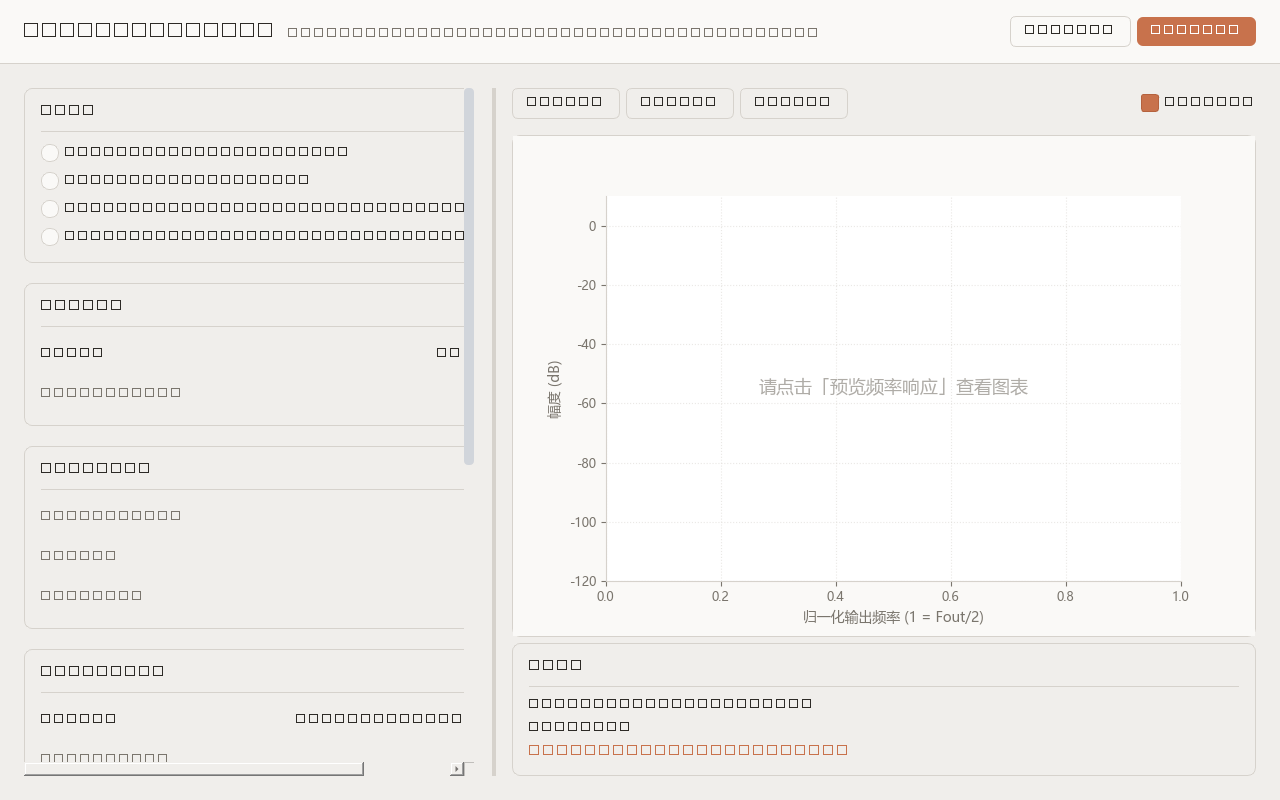
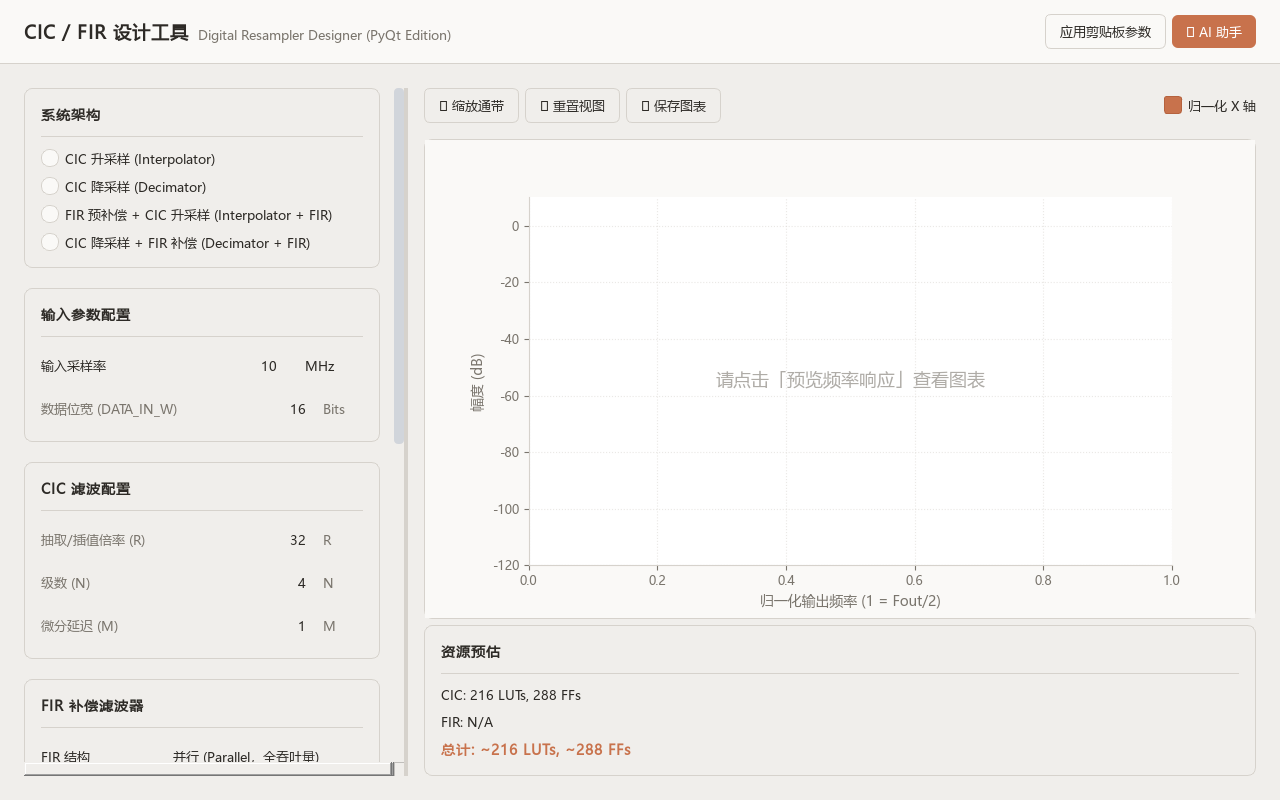
Fix GUI CJK font stack; regenerate screenshot; detail README LLM API config
- ui.py: add Microsoft YaHei / PingFang SC / Noto Sans CJK to global font stack
- images/gui.png: re-captured with CJK fonts loaded
- README: document default model deepseek-v4-flash and how to switch to
  other OpenAI-compatible providers (OpenAI, Qwen, Kimi, GLM, vLLM, Ollama)

diff --git a/py/ui.py b/py/ui.py
@@ -76,7 +76,7 @@ THEME = {
 
 GLOBAL_STYLESHEET = f"""
 QWidget {{
-    font-family: -apple-system, BlinkMacSystemFont, "Segoe UI", Roboto, "Helvetica Neue", Arial, sans-serif;
+    font-family: -apple-system, BlinkMacSystemFont, "Segoe UI", Roboto, "Helvetica Neue", Arial, "Microsoft YaHei", "PingFang SC", "Noto Sans CJK SC", sans-serif;
     color: {THEME['text']};
     font-size: 13px;
 }}

diff --git a/README.md b/README.md
@@ -79,21 +79,77 @@ cd cic-design-studio
 pip install -r requirements.txt
 ```
 
-### 配置 LLM API（可选）
+### 配置 LLM API
 
-工具调用 OpenAI API 格式兼容的对话接口，通过环境变量配置，默认使用 deepseek-v4-flash 模型：
+工具调用 **OpenAI API 格式兼容** 的对话接口完成智能对话与自然语言参数推荐，全部通过环境变量配置，**代码中不包含任何 API Key**。
+
+#### 默认配置：DeepSeek + deepseek-v4-flash
+
+只需设置 API Key 即可使用，模型与接口地址均带默认值：
 
 ```bash
 # Windows (PowerShell)
-$env:DEEPSEEK_API_KEY = "sk-你的密钥"
-$env:DEEPSEEK_MODEL   = "deepseek-v4-flash"     # 可选，默认 deepseek-v4-flash
-$env:DEEPSEEK_API_URL = "https://api.deepseek.com/chat/completions"  # 可选
-
-# Linux / macOS
-export DEEPSEEK_API_KEY="sk-你的密钥"
+$env:DEEPSEEK_API_KEY = "sk-你的DeepSeek密钥"
 ```
 
-不配置 API Key 时，全部确定性功能（参数设计、频响验证、RTL 生成、协同仿真）均可正常使用，仅 LLM 辅助功能（智能对话、参数推荐）不可用。
+| 环境变量 | 默认值 | 说明 |
+|---|---|---|
+| `DEEPSEEK_API_KEY` | 必填，无默认值 | DeepSeek API Key（在 https://platform.deepseek.com 获取） |
+| `DEEPSEEK_MODEL` | `deepseek-v4-flash` | 对话模型名称 |
+| `DEEPSEEK_API_URL` | `https://api.deepseek.com/chat/completions` | OpenAI 兼容接口地址 |
+
+默认使用 **deepseek-v4-flash**（dsv4f）模型，不需要额外配置。
+
+#### 使用其他模型
+
+##### 切换 DeepSeek 的其他模型
+
+```bash
+$env:DEEPSEEK_API_KEY = "sk-你的DeepSeek密钥"
+$env:DEEPSEEK_MODEL   = "deepseek-chat"        # 或 deepseek-reasoner
+```
+
+##### 使用 OpenAI 模型
+
+```bash
+$env:DEEPSEEK_API_KEY = "sk-你的OpenAI密钥"
+$env:DEEPSEEK_MODEL   = "gpt-4o"               # 或 gpt-4o-mini 等
+$env:DEEPSEEK_API_URL = "https://api.openai.com/v1/chat/completions"
+```
+
+##### 使用其他 OpenAI 兼容服务（通义 / Kimi / 智谱 / vLLM / Ollama 等）
+
+任何提供 OpenAI 兼容 `/chat/completions` 接口的服务均可接入，只需修改 `DEEPSEEK_API_URL` 与 `DEEPSEEK_MODEL`：
+
+```bash
+# Windows (PowerShell)
+$env:DEEPSEEK_API_KEY = "你的服务商密钥"
+$env:DEEPSEEK_MODEL   = "qwen-max"             # 按服务商模型名填写
+$env:DEEPSEEK_API_URL = "https://dashscope.aliyuncs.com/compatible-mode/v1/chat/completions"  # 例：阿里云百炼
+
+# Linux / macOS
+export DEEPSEEK_API_KEY="你的服务商密钥"
+export DEEPSEEK_MODEL="qwen-max"
+export DEEPSEEK_API_URL="https://dashscope.aliyuncs.com/compatible-mode/v1/chat/completions"
+```
+
+常见服务商配置参考：
+
+| 服务商 | `DEEPSEEK_API_URL` | 模型示例 |
+|---|---|---|
+| DeepSeek（默认） | `https://api.deepseek.com/chat/completions` | `deepseek-v4-flash` / `deepseek-chat` / `deepseek-reasoner` |
+| OpenAI | `https://api.openai.com/v1/chat/completions` | `gpt-4o` / `gpt-4o-mini` |
+| 阿里云百炼（通义千问） | `https://dashscope.aliyuncs.com/compatible-mode/v1/chat/completions` | `qwen-max` / `qwen-plus` |
+| Moonshot（Kimi） | `https://api.moonshot.cn/v1/chat/completions` | `moonshot-v1-8k` 等 |
+| 智谱 GLM | `https://open.bigmodel.cn/api/paas/v4/chat/completions` | `glm-4-plus` 等 |
+| 本地 vLLM | `http://localhost:8000/v1/chat/completions` | 你部署的模型名 |
+| 本地 Ollama | `http://localhost:11434/v1/chat/completions` | `llama3.1` 等 |
+
+> **说明**：LLM 只负责设计意图理解、参数推荐与对话；所有数值计算（位宽、频响、系数、资源估算）均由本地确定性算法完成。更换模型或完全关闭 LLM 都不影响 RTL 生成与验证的正确性。
+
+#### 不配置 API Key 时
+
+全部确定性功能（参数设计、频响验证、RTL 生成、协同仿真、MATLAB 脚本生成等）均可正常使用；仅 AI 对话与自然语言参数推荐不可用。
 
 ## 快速开始
 
